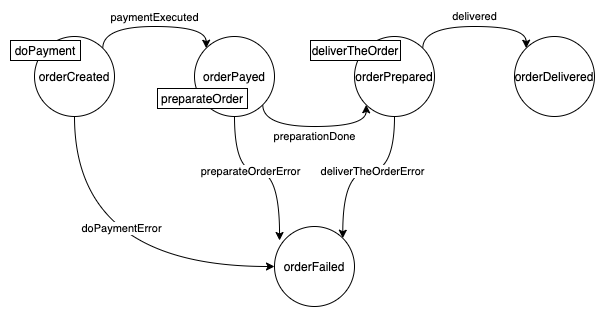
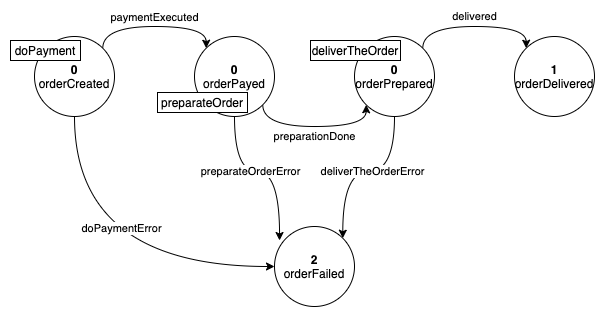
Flow manager documentation adjustments #4

diff --git a/docs/runtime_suite/flow-manager/how-it-works.md b/docs/runtime_suite/flow-manager/how-it-works.md
@@ -2,13 +2,6 @@
 
 In this page will be explained the how the _Flow Manager_ works.
 
-Following the core concepts of the _Flow Manager_:
-
-- [Finite State Machine](#the-finite-state-machine)
-- [commands/events approach](#commands-events-approach)
-- [service metadata](#service-metadata)
-- [data persistency and consistency](#data-persistency-and-consistency)
-
 ## The finite state machine
 
 As mentioned in the [service introduction](../#introduction), the _Flow Manager_ is based on a _Finite State Machine_.
@@ -34,17 +27,18 @@ Each business state can contain one or more states of the machine.
 
 "States that matter for the business" means that a business state represents a state of the _Saga_ that is not "Intermediate", that symbolizes what is the whole saga status.
 
-Let's explain it with an example based on the usual _Finite State Machine_:
+Let's explain it with an example based on the usual _Finite State Machine_ (the _businessStates_ are the numbers in each state):
 [![alt_image](img/sample-finite-state-machine-with-commands.png)](img/sample-finite-state-machine-with-commands.png)
 
 The image above contains all the internal states of the _Saga_, but not all states could be important for the business. For example, the business could care about:
 
 - the order is created &rarr; **0**
-- the order is payed &rarr; **1**
-- the order is delivered &rarr; **2**
-- the order is failed &rarr; **3**
+- the order is delivered &rarr; **1**
+- the order is failed &rarr; **2**
 
-When an order is payed, the _businessState_ will be **1** and, when the preparation is done, the _businessState_ will be **1** again, because is not an information that matter.
+When an order is delivered, the _businessState_ will be **1**, that means that the payment is done and the deliver too, the _businessState_ **1** contains all the information that matters for the business.
+
+In this way the users can look for successfully completed orders just by looking for the orders with _businessState_ set to **1**.
 
 The one above is just a very simple example that just excludes one _Finite State Machine_ from the business states, but in real cases with we worked the business states are less than half of the _Final State Machine_ ones.
 
@@ -60,6 +54,8 @@ To do this, the service uses the _command/event_ approach, or:
 - every time that the saga goes in a new state, the _Flow Manager_ sends a **command** (if expected into the current state) through the specified channel
 - another service listens the command, executes it and replies with a **event** into the expected channel
 - the _Flow Manager_ listens the event from the channel and, if is a expected event in the current state, goes to the next state, related to the event
+
+If a command execution fails, an error event will be sent by the _executor actor_ instead of the _done event_; in this case, the possible management of the error state is delegated to the user that writes the _Flow Manager_ configurations file (to go, for example, in a error state with remediations actions).
 
 !!! warning
     **NB.** if an event is unexpected in the current state, the _Flow Manager_ will log an error and will ignore it.
@@ -131,13 +127,16 @@ Followind some sample flow based on the following finite state machine, in which
     - listens a **preparationDone** event
     - logs an error for the unexpected event and ignores it
 
+In this case the _Flow Manager_, while in **orderCreated** state, was expecting a **paymentExecuted** event to continue, like specified in the configurations file;
+it received the **preparationDone** event instead and, since this event was unexpected, the _Flow Manager_ simply ignores it and logs an error.
+
 ## Service metadata
 
 The _Flow Manager_ is a platform core service and this implies that it must be generic and configurable with each _Saga_ flow.
 
 To do this, it cannot know the nature of the data behind a saga, it cannot know if the _Saga_ represents a _Food delivery order_, a _Ecommerce order_ or other.
 
-For this reason the service is agnostic and does not know anithing about the data related to the saga, but how can it handle it so?
+For this reason the service is agnostic and does not know anything about the data related to the saga, but how can it handle it so?
 
 It handles the saga data with the concept of **metadata**.
 
@@ -171,18 +170,10 @@ The static part is the common _Saga_ data, or, data that all sagas have:
 - the **business state description** (see [business states](#business-states))
 - the **history** of the saga (a list with the events and the related timestamp)
     - **NB.** the _history_ is not handled by the _Flow Manager_ right now, but from the [_Persistency Manager_](#the-persistency-manager)
-- the **isFinal** flag, that indicates if the current state is a final one (**deprecated**)
+- the **isFinal** flag, that indicates if the current state is a final one
 
 !!! note
-    All the fields above are common filds of the saga and are not related to the specific case
-
-### Metadata handling
-
-As mentioned above, the saga has a static part and a dynamic one. The dynamic one is represented by the **metadata**, that are all the data strictly related to the specific _Saga_ flow and depends by the saga nature.
-
-The **metadata** is just a [JSON Object](https://www.w3schools.com/js/js_json_objects.asp) with all the data useful for the _Saga_ flow. The content of this field is completely unknown to the _Flow Manager_.
-
-In the [data persistency and consistency](#data-persistency-and-consistency) section will be explained how the _Flow Manager_ handles the **metadata**.
+    All the fields above are common fields of the saga and are not related to the specific case
 
 ## Data persistency and consistency
 
@@ -199,7 +190,8 @@ Specifically the service does the following steps to ensure the data consistency
 - when the _Flow Manager_ listens a **event**, it does the following actions:
     - takes the **metadata** from the event payload (that should be only the new metadata, added during the command handling by the specific service)
     - takes the current _Saga_'s metadata from the database
-    - merges the current metadata with the new metadata
+    - merges the current metadata with the new metadata (it is just a first level merge, nested objects will be completely substitute with the new ones):
+        - `{ name: 'Chester', surname: 'Bennington', address: { country: 'California' } }`<br>merged with<br>`{ name: 'Chester', surname: 'Bennington', age: 41, address: { zip: '12345' } }`<br>will become<br>`{ name: 'Chester', surname: 'Bennington', age: 41, address: { zip: '12345' } }`
     - saves the merged metadata into the database
     - if a command must be sent, it puts the merged metadata into the payload
 

diff --git a/docs/runtime_suite/flow-manager/configuration.md b/docs/runtime_suite/flow-manager/configuration.md
@@ -62,7 +62,7 @@ The *Flow Manager* behavior will be the following:
 
 Following some examples with explanation.
 
-#### Kafka valid channel - consumer only - ssl auth
+#### Kafka - consumer only - ssl auth
 
 ```json
 {
@@ -88,7 +88,7 @@ Following some examples with explanation.
 }
 ```
 
-#### Kafka valid channel - producer only - no auth
+#### Kafka - producer only - no auth
 
 ```json
 {
@@ -105,23 +105,7 @@ Following some examples with explanation.
 }
 ```
 
-#### Kafka invalid channel - invalid configurations
-
-```json
-{
-  "id": "myKafkaConsumer",
-  "type": "kafka",
-  "configurations": {
-    "brokers": [
-      "http://myKafkaConsumer:9092"
-    ]
-  }
-}
-```
-
-The JSON above is NOT valid because both *inputTopics* and *outputTopics* are missing.
-
-#### Kafka valid channel - complete configurations
+#### Kafka - complete configurations
 
 ```json
 {
@@ -230,7 +214,7 @@ that accepts the following body:
   }
 ```
 
-### Persistency Manager
+## Persistency Manager
 
 This section contains the configurations for the *Persistency Manager*, that is responsible for:
 
@@ -245,7 +229,7 @@ The **persistencyManagement** section must contain a JSON object with the config
 
 For more about the *Persistency Manager* look the [**dedicated documentation**](../how-it-works/#the-persistency-manager).
 
-#### REST Persistency Manager
+### REST Persistency Manager
 
 The *REST* peristency manager uses the REST protocol to contact the service for read and insert/update the sagas.
 
@@ -319,7 +303,7 @@ and with the sagaId **EXAMPLE_123456_SAGA**, the operations will be:
 
     `GET - http://my-persistency-manager:3000/EXAMPLE_123456_SAGA`
 
-### Machine Definition
+## Machine Definition
 
 This is the core section of the *Flow Manager* configurations, because it contains the *Final State Machine* definition.
 
@@ -330,7 +314,7 @@ Following the *Machine Definition* configurations (the **bold** are the required
 - **states**: an array that contains the list of the states of the *Finite state machine* ([explained below](#states-of-the-machine))
 - **businessStates**: an array that contains the list of the states that matters for business ([explained below](#busness-states-of-the-machine))
 
-#### States of the machine
+### States of the machine
 
 The states of the machine are used by the *Flow Manager* to know how to move forward the saga through the flow.
 
@@ -347,7 +331,7 @@ Each state must have the following configurations (the **bold** are the required
     - **inputEvent**: a string with the event that will trigger the transition from the current state
     - **targetState**: the ID of the state to land on (**NB.** must exist a state with this ID);
 
-#### Business states of the machine
+### Business states of the machine
 
 The business states of the machine are a superset of the machine that represents the states of the saga that matter for the business.
 
@@ -360,11 +344,11 @@ Following the configurations of the business states (the **bold** are the requir
 
 **NB.** the id and the description of the business state will be stored by the *Persistency Manager*.
 
-### Configuration example
+## Configuration example
 
 The following example configurations can be used as templates.
 
-#### Kafka example
+### Kafka example
 
 ```json
 {
@@ -489,7 +473,7 @@ The following example configurations can be used as templates.
 }
 ```
 
-#### Rest example
+### Rest example
 
 ```json
 {
@@ -616,3 +600,80 @@ The following example configurations can be used as templates.
   }
 }
 ```
+
+## Troubleshooting
+
+In this section there are common cases of wrong configurations.
+
+### Communication Protocol configurations
+
+#### Kafka - missing topics
+
+```json
+{
+  "id": "myKafkaConsumer",
+  "type": "kafka",
+  "configurations": {
+    "brokers": [
+      "http://myKafkaConsumer:9092"
+    ]
+  }
+}
+```
+
+The JSON above is NOT valid because both *inputTopics* and *outputTopics* are missing.
+
+#### Kafka - missing consumer group
+
+```json
+{
+  "id": "myKafkaConsumer",
+  "type": "kafka",
+  "configurations": {
+    "brokers": [
+      "http://myKafkaConsumer:9092"
+    ],
+    "inputTopics": [
+      "inputTopic"
+    ]
+  }
+}
+```
+
+The JSON above is NOT valid because there are *inputTopics* but the *consumerGroup* property is missing.
+
+#### REST - missing protocol
+
+```json
+{
+  "id": "rest",
+  "type": "rest",
+  "configurations": {
+    "endpoint": "rest-service",
+    "port": 80,
+    "path": "/command",
+    "method": "POST",
+    "headers": {}
+  }
+}
+```
+
+The JSON above is NOT valid because the *protocol* property inside the *configuration* section is missing.
+
+#### REST - missing method
+
+```json
+{
+  "id": "rest",
+  "type": "rest",
+  "configurations": {
+    "protocol": "https",
+    "endpoint": "rest-service",
+    "port": 80,
+    "path": "/command",
+    "headers": {}
+  }
+}
+```
+
+The JSON above is NOT valid because the *method* property inside the *configuration* section is missing.

diff --git a/docs/runtime_suite/flow-manager/index.md b/docs/runtime_suite/flow-manager/index.md
@@ -24,16 +24,45 @@ As you can see in the flow above, every step is managed by the _Flow Manager_, n
 - the _Order Service_ forwards a creation request to the _Flow Manager_
 - the _Flow Manager_ sends the `executePayment` _command_ to the _Message Broker_
 - the _Payment Service_, unknown to the _Flow Manager_, handles the command and replies with a `paymentExecuted` event
-- and so on...
+- the _Flow Manager_ listens the `paymentExecuted` event, handles it and replies with the `prepareOrder` command
+- the _Stock Service_ handles the command and replies with a `orderPrepared` event
+- the _Flow Manager_ listens the `orderPrepared`, handles it and replies with the `deliverOrder` command
+- the _Delivery Service_ handles the command and replies with a `orderDelivered` event
+- the flow is complete
 
 As in the example above, the _Flow Manager_ is the core of the _Saga_, contains all the _business logic_ and orchestrates the flow.
 
 More of the information above are about the _Saga Pattern_, _Command/Orchestration_ approach, go ahead into the documentation to know the details about the _Flow Manager_.
 
+## Simple Flow Manager based architecture
+
+To make the _Flow Manager_ architecture clearer, following some diagram of a "_Flow Manager_ based" microservices architecture.
+
+In the example there are the following components (microservices):
+
+- **flow-manager**: the _Flow Manager_ microservice
+- **persistency-manager**: the _Persistency Manager_ microservice (see the dedicated documentation [here](./how-it-works/#the-persistency-manager))
+- **order-service**: a sample microservice that starts the saga
+- **microservice-n**: some microservice that collaborate to continue the saga
+
+The architecture above is simply feasible with the dev console, as showed in the following image:
+
+[![alt_image](img/flow-manager-architecture-dev-console.png)](img/flow-manager-architecture-dev-console.png)
+
+Following two architectures diagrams, based on differents communication protocols (see the dedicated documentation [here](./configuration/#communication-protocols)):
+
+[![alt_image](img/Flow-Manager-generic-message-broker.png)](img/Flow-Manager-generic-message-broker.png)
+<p align="center" style="font-size: 10px">**Flow Manager architecture with message broker**</p>
+
+<br>
+
+[![alt_image](img/Flow-Manager-generic-REST.png)](img/Flow-Manager-generic-REST.png)
+<p align="center" style="font-size: 10px">**Flow Manager architecture with REST protocol**</p>
+
 ## Further details
 
-Follow the pages below for more about the _Flow Manager_:]
+Follow the pages below for more about the _Flow Manager_:
 
-- [_Flow Manager_ - how it works](./how-it-works)
+- [_Flow Manager_ - how it works](./how-it-works.md)
 
-- [_Flow Manager_ configuration](./configuration)
+- [_Flow Manager_ configuration](./configuration.md)
